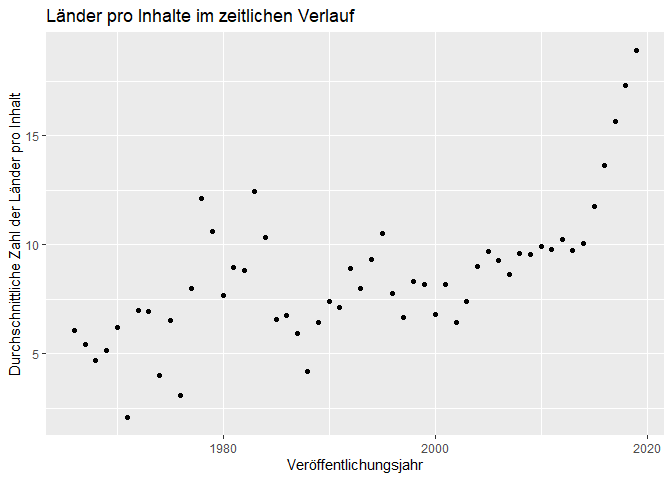
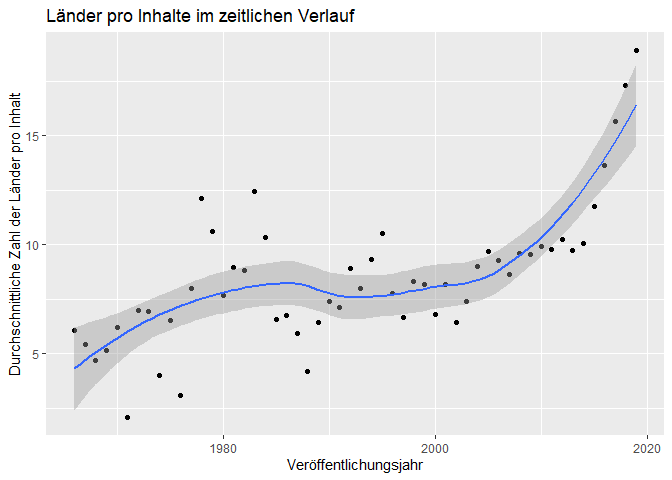
36

Changed region(s): [[0.0938, 0.1562, 0.9688, 0.8438]]

diff --git a/Bericht_Henke_Keil_Reichmann.md b/Bericht_Henke_Keil_Reichmann.md
@@ -144,7 +144,7 @@ Inhalte in fast allen Ländern verfügbar sind. Dem ist aber nicht so:
 ![](Bericht_Henke_Keil_Reichmann_files/figure-gfm/unnamed-chunk-7-1.png)<!-- -->
 Tatsächlich ist ein Großteil der Medien nur in einem einzigen Land
 abrufbar, das Angebot von Netflix scheint also recht speziell auf
-einzelne Länder zugeschnitten zu sein. Nur im Bereich von knapp 35
+einzelne Länder zugeschnitten zu sein. Nur im Bereich von knapp 36
 Ländern ist ein kleinerer Spike mit fast 1500 sehr international
 verfügbaren Inhalten.
 
@@ -154,7 +154,6 @@ dem Veröffentlichungsdatum vergleichen.
 
 ![](Bericht_Henke_Keil_Reichmann_files/figure-gfm/unnamed-chunk-8-1.png)<!-- -->
 
-<<<<<<< HEAD
 Hier sehen wir eine interessante Korrelation, die auf eine stärkere
 Internationalität hinweist, je neuer der Inhalt ist. Dieser Effekt ist
 noch deutlicher sichtbar, wenn wir die automatische Annährungskurve von
@@ -162,23 +161,16 @@ R in den Graphen legen. Diese wird mit einer lokalen polynomiellen
 Regression (loess) erzeugt, worauf wir uns aber nicht konzentrieren
 werden \[QUELLE????\]
 
-![](Bericht_Henke_Keil_Reichmann_files/figure-gfm/unnamed-chunk-10-1.png)<!-- -->
+![](Bericht_Henke_Keil_Reichmann_files/figure-gfm/unnamed-chunk-9-1.png)<!-- -->
 
 Zuletzt untersuchen wir noch die Genres. Hier fallen starke Unterschiede
 zwischen den beliebtesten Genres gegenüber den am wenigsten vorkommenden
 Genres auf.
-![](Bericht_Henke_Keil_Reichmann_files/figure-gfm/unnamed-chunk-11-1.png)<!-- -->
-=======
-Zuletzt untersuchen wir noch die Genres
-![](Bericht_Henke_Keil_Reichmann_files/figure-gfm/unnamed-chunk-9-1.png)<!-- -->
-
-und die Genres im zeitlichen Verlauf:
 ![](Bericht_Henke_Keil_Reichmann_files/figure-gfm/unnamed-chunk-10-1.png)<!-- -->
->>>>>>> 4e955870f85efd5ed79d79498aa4c26ee9b682ce
 
 Wenn wir nun die Genres im zeitlichen Verlauf angucken, bekommen wir ein
 interessantes Bild:
-![](Bericht_Henke_Keil_Reichmann_files/figure-gfm/unnamed-chunk-12-1.png)<!-- -->
+![](Bericht_Henke_Keil_Reichmann_files/figure-gfm/unnamed-chunk-11-1.png)<!-- -->
 
 Trotz (bzw. sogar wegen) des Overplotting sehen wir klar: Mit
 zunehmender Jahreszahl gibt es mehr Genres und die einzelnen Genres
@@ -186,11 +178,7 @@ tendieren dazu einen kleineren Anteil auszumachen, denn die Punkte
 liegen rechts unten im Plot am dichtesten. Zählen wir die Genres pro
 Jahr erhalten wir einen annähernd linearen Zusammenhang:
 
-<<<<<<< HEAD
-![](Bericht_Henke_Keil_Reichmann_files/figure-gfm/unnamed-chunk-13-1.png)<!-- -->
-=======
-![](Bericht_Henke_Keil_Reichmann_files/figure-gfm/unnamed-chunk-11-1.png)<!-- -->
->>>>>>> 4e955870f85efd5ed79d79498aa4c26ee9b682ce
+![](Bericht_Henke_Keil_Reichmann_files/figure-gfm/unnamed-chunk-12-1.png)<!-- -->
 
 Allerdings wird in unserem Datensatz ein Film/einer Serie i.d.R.
 mehreren Genres zugeordnet. Liegt der Zusammenhang also eventuell daran,
@@ -198,11 +186,7 @@ dass neuere Inhalte einfach mehr unterschiedlichen Genres zugeordnet
 werden? Um das zu beantworten plotten wir die durchschnittliche Zahl der
 Genres, denen ein Medium in einem gegebenen Jahr zugeordnet wird:
 
-<<<<<<< HEAD
-![](Bericht_Henke_Keil_Reichmann_files/figure-gfm/unnamed-chunk-14-1.png)<!-- -->
-=======
-![](Bericht_Henke_Keil_Reichmann_files/figure-gfm/unnamed-chunk-12-1.png)<!-- -->
->>>>>>> 4e955870f85efd5ed79d79498aa4c26ee9b682ce
+![](Bericht_Henke_Keil_Reichmann_files/figure-gfm/unnamed-chunk-13-1.png)<!-- -->
 
 Anhand des Plots lässt sich diese Vermutung widerlegen, denn die Zahl
 der Genres ist fast immer zwischen 2.5 und .5. Lediglich vor 1980 sieht
